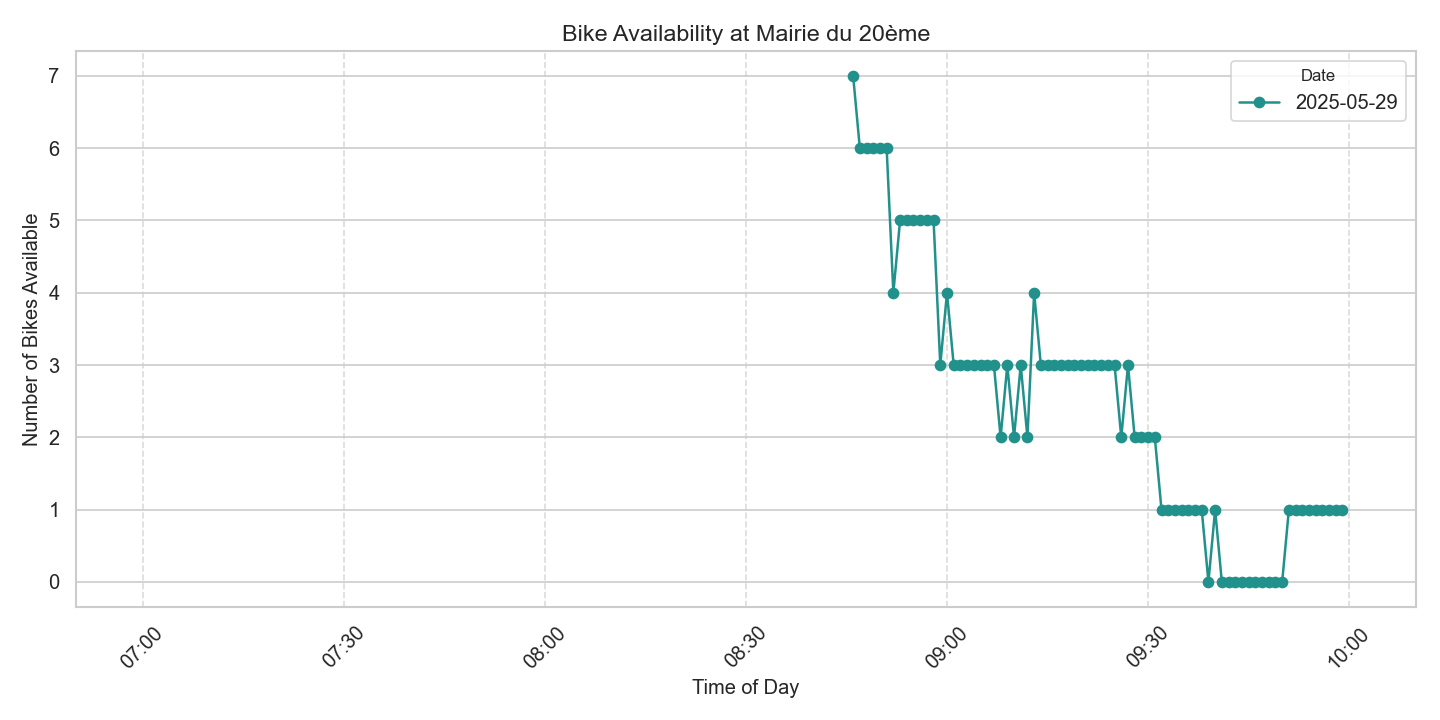
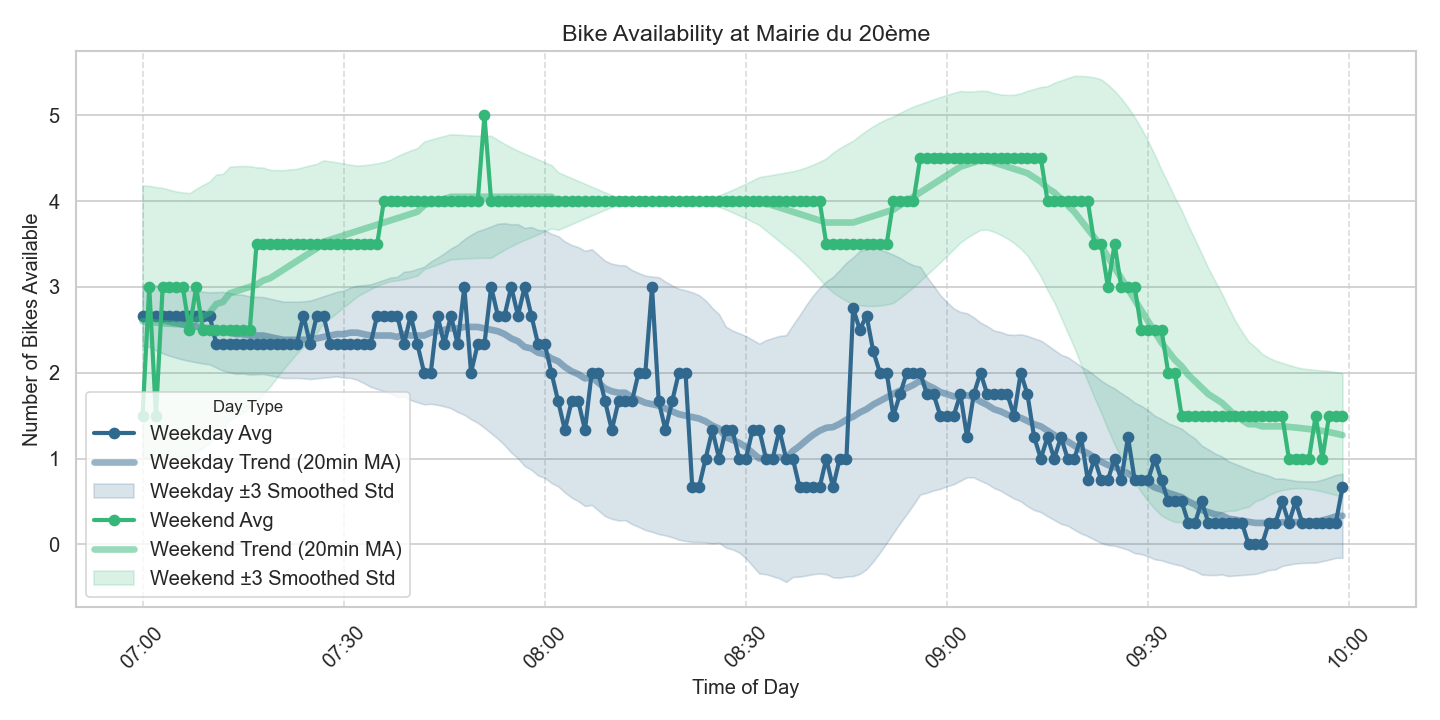
Plot average of each minute, a trend and +/- 3 standard deviation

diff --git a/velib-scraper/viz.py b/velib-scraper/viz.py
@@ -68,28 +68,54 @@ def plot_station_availability(station_name: str) -> None:
     # Create the plot
     plt.figure(figsize=(12, 6))
 
-    # Get unique dates and assign colors using the viridis colormap
-    unique_dates = pdf["date"].unique()
-    colors = sns.color_palette("viridis", n_colors=len(unique_dates))
-    date_to_color = dict(zip(unique_dates, colors))
+    # Assign two colors from the Viridis palette for weekdays and weekends
+    viridis_colors = sns.color_palette("viridis", 2)
 
-    # Plot each date separately to ensure proper connections only between actual data points
-    for date in unique_dates:
-        # Filter data for this date
-        date_data = pdf[pdf["date"] == date].sort_values("minutes_since_midnight")
+    # Add a column for weekday/weekend
+    pdf["day_type"] = pdf["date"].apply(lambda d: "Weekday" if pd.to_datetime(d).weekday() < 5 else "Weekend")
 
-        # Format date for legend
-        date_str = pd.to_datetime(date).strftime("%Y-%m-%d")
+    # Group by day_type and minutes_since_midnight, then average
+    grouped = pdf.groupby(["day_type", "minutes_since_midnight"])["bikes_available"].mean().reset_index()
 
-        # Plot with lines and markers
+    # Plot average availability for weekdays and weekends
+    for i, day_type in enumerate(["Weekday", "Weekend"]):
+        day_data = grouped[grouped["day_type"] == day_type].copy()
+        # Plot the original average (with markers)
         plt.plot(
-            date_data["minutes_since_midnight"],
-            date_data["bikes_available"],
+            day_data["minutes_since_midnight"],
+            day_data["bikes_available"],
             "-o",
-            label=date_str,
-            color=date_to_color[date],
+            label=f"{day_type} Avg",
+            color=viridis_colors[i],
             markersize=6,
-            linewidth=1.5,
+            linewidth=2.5,
+        )
+
+        # --- Add moving average trendline (60-minute window) ---
+        window_size = 20
+        # Compute moving average and rolling std
+        day_data_sorted = day_data.sort_values("minutes_since_midnight")
+        ma = day_data_sorted["bikes_available"].rolling(window=window_size, min_periods=1, center=True).mean()
+        std = day_data_sorted["bikes_available"].rolling(window=window_size, min_periods=1, center=True).std()
+        # Smooth the std with another rolling mean
+        std_smooth = std.rolling(window=window_size, min_periods=1, center=True).mean()
+        # Plot the moving average trendline
+        plt.plot(
+            day_data_sorted["minutes_since_midnight"],
+            ma,
+            label=f"{day_type} Trend (20min MA)",
+            color=viridis_colors[i],
+            linewidth=4,
+            alpha=0.5,
+        )
+        # Plot the smoothed rolling std as a shaded area around the trendline
+        plt.fill_between(
+            day_data_sorted["minutes_since_midnight"],
+            ma - 3 * std_smooth,
+            ma + 3 * std_smooth,
+            color=viridis_colors[i],
+            alpha=0.18,
+            label=f"{day_type} ±3 Smoothed Std"
         )
 
     # Set x-axis limits to show from 7:00 to 10:00 (420 to 600 minutes)
@@ -112,18 +138,8 @@ def plot_station_availability(station_name: str) -> None:
     plt.xlabel("Time of Day", fontsize=12)
     plt.ylabel("Number of Bikes Available", fontsize=12)
 
-    # Configure legend - more compact for many days
-    if len(pdf["date"].unique()) > 10:
-        plt.legend(
-            title="Date",
-            fontsize="small",
-            ncol=2,
-            title_fontsize=10,
-            loc="upper center",
-            bbox_to_anchor=(0.5, -0.15),
-        )
-    else:
-        plt.legend(title="Date", title_fontsize=10, loc="best")
+    # Configure legend for weekday/weekend
+    plt.legend(title="Day Type", title_fontsize=10, loc="best")
 
     # Save the plot
     output_filename = (
